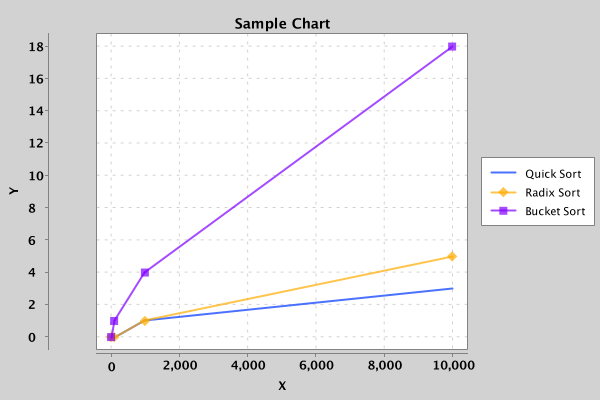
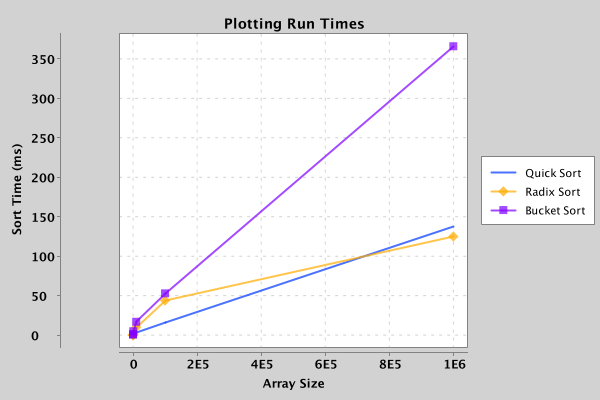
final push?

diff --git a/xchart-demo/src/main/java/org/knowm/xchart/demo/sortingComparison.java b/xchart-demo/src/main/java/org/knowm/xchart/demo/sortingComparison.java
@@ -1,12 +1,7 @@
 package org.knowm.xchart.demo;
 import java.util.*;
 import java.util.List;
-import java.awt.*;  
-import javax.swing.*;  
-import java.awt.geom.*;  
-
 import java.io.IOException;
-
 
 import org.knowm.xchart.BitmapEncoder;
 import org.knowm.xchart.QuickChart;
@@ -14,19 +9,24 @@ import org.knowm.xchart.SwingWrapper;
 import org.knowm.xchart.XYChart;
 import org.knowm.xchart.BitmapEncoder.BitmapFormat;
 
+// Created by Francesca Brown and Cecelia Kaufmann
+// Credit to XChart Library for allowing us to plot our data 
+
 public class sortingComparison {
     
     public static void main(String[] args) throws IOException{
-        double[] xDataQ = new double[4];
-        double[] yDataQ = new double[4];
+        int n = 6;
 
-        double[] xDataR = new double[4];
-        double[] yDataR = new double[4];
+        double[] xDataQ = new double[n];
+        double[] yDataQ = new double[n];
 
-        double[] xDataB = new double[4];
-        double[] yDataB = new double[4];
+        double[] xDataR = new double[n];
+        double[] yDataR = new double[n];
 
-        for(int i = 1; i < 5; i++){
+        double[] xDataB = new double[n];
+        double[] yDataB = new double[n];
+
+        for(int i = 1; i < n+1; i++){
             int[] arr = generateRandomArray((int)Math.pow(10, i), 0, (int)Math.pow(10, i+1));
             List<Integer> list=new ArrayList<>();
                 for(int j=0;j<arr.length;j++){
@@ -46,7 +46,7 @@ public class sortingComparison {
 
         }
   
-        XYChart chart = QuickChart.getChart("Plotting Run Times", "X", "Y", "Quick Sort", xDataQ, yDataQ);
+        XYChart chart = QuickChart.getChart("Plotting Run Times", "Array Size", "Sort Time (ms)", "Quick Sort", xDataQ, yDataQ);
         // add other line to graph
 
         chart.addSeries("Radix Sort", xDataR, yDataR);

diff --git a/xchart-demo/src/main/java/org/knowm/xchart/demo/README.md b/xchart-demo/src/main/java/org/knowm/xchart/demo/README.md
@@ -2,7 +2,9 @@ Authors: Cecelia Kaufmann and Francesca Brown
 Our project: Our project compares QuickSort, BucketSort, and RadixSort algorithms
 to see which of the different sorts have the quickest runtime across arrays of various 
 sizes. Then, we used Xchart (a graphing download) to visually respresent the runtime
-comparisons.
+comparisons (Github link below). 
+
+https://github.com/knowm/XChart 
 
 These are the libraries are included to run our code. The code needs to be run in this folder/Github repository
 for the Xchart outputs to work. Here are the packages/ libraries needed to be included: 
@@ -10,15 +12,17 @@ for the Xchart outputs to work. Here are the packages/ libraries needed to be in
 package org.knowm.xchart.demo;
 import java.util.*;
 import java.util.List;
-import java.awt.*;  
-import javax.swing.*;  
-import java.awt.geom.*;  
-
 import java.io.IOException;
-
 
 import org.knowm.xchart.BitmapEncoder;
 import org.knowm.xchart.QuickChart;
 import org.knowm.xchart.SwingWrapper;
 import org.knowm.xchart.XYChart;
 import org.knowm.xchart.BitmapEncoder.BitmapFormat;
+
+In order to run the code, go into the sortingComparison class just below this README and run the main method. 
+You will see the following line of code at the top:
+
+int n = 6;
+
+The main method will time and plot each sorting algorithm on arrays size 10 ^ (1 through n). In this case, n would be 6. To change this, you can change the value of int n = 6 to whichever value you desire.
